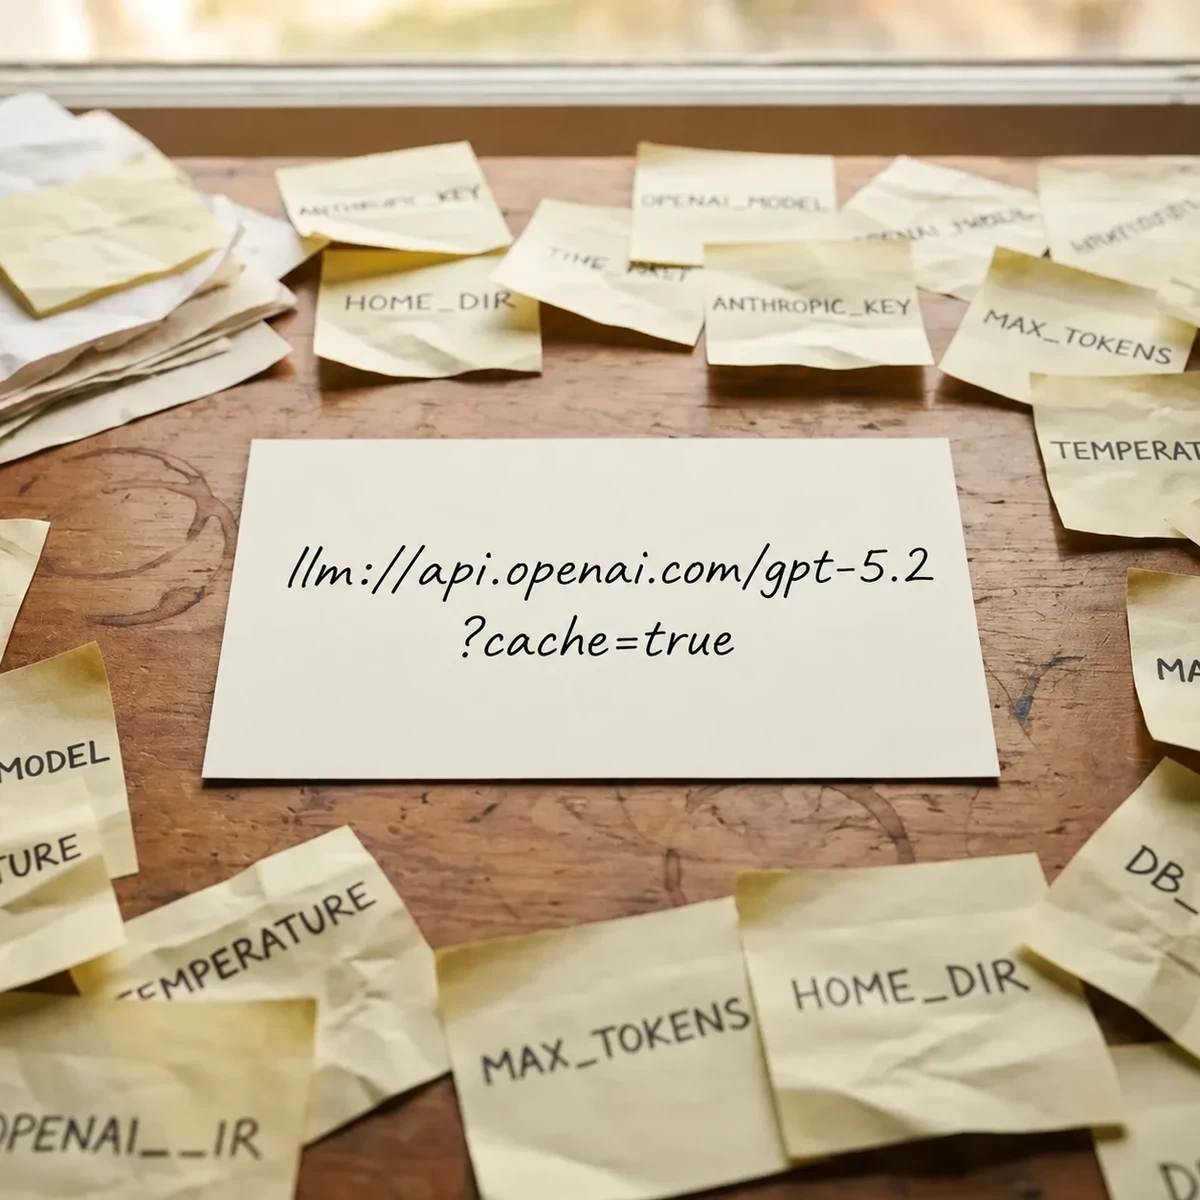
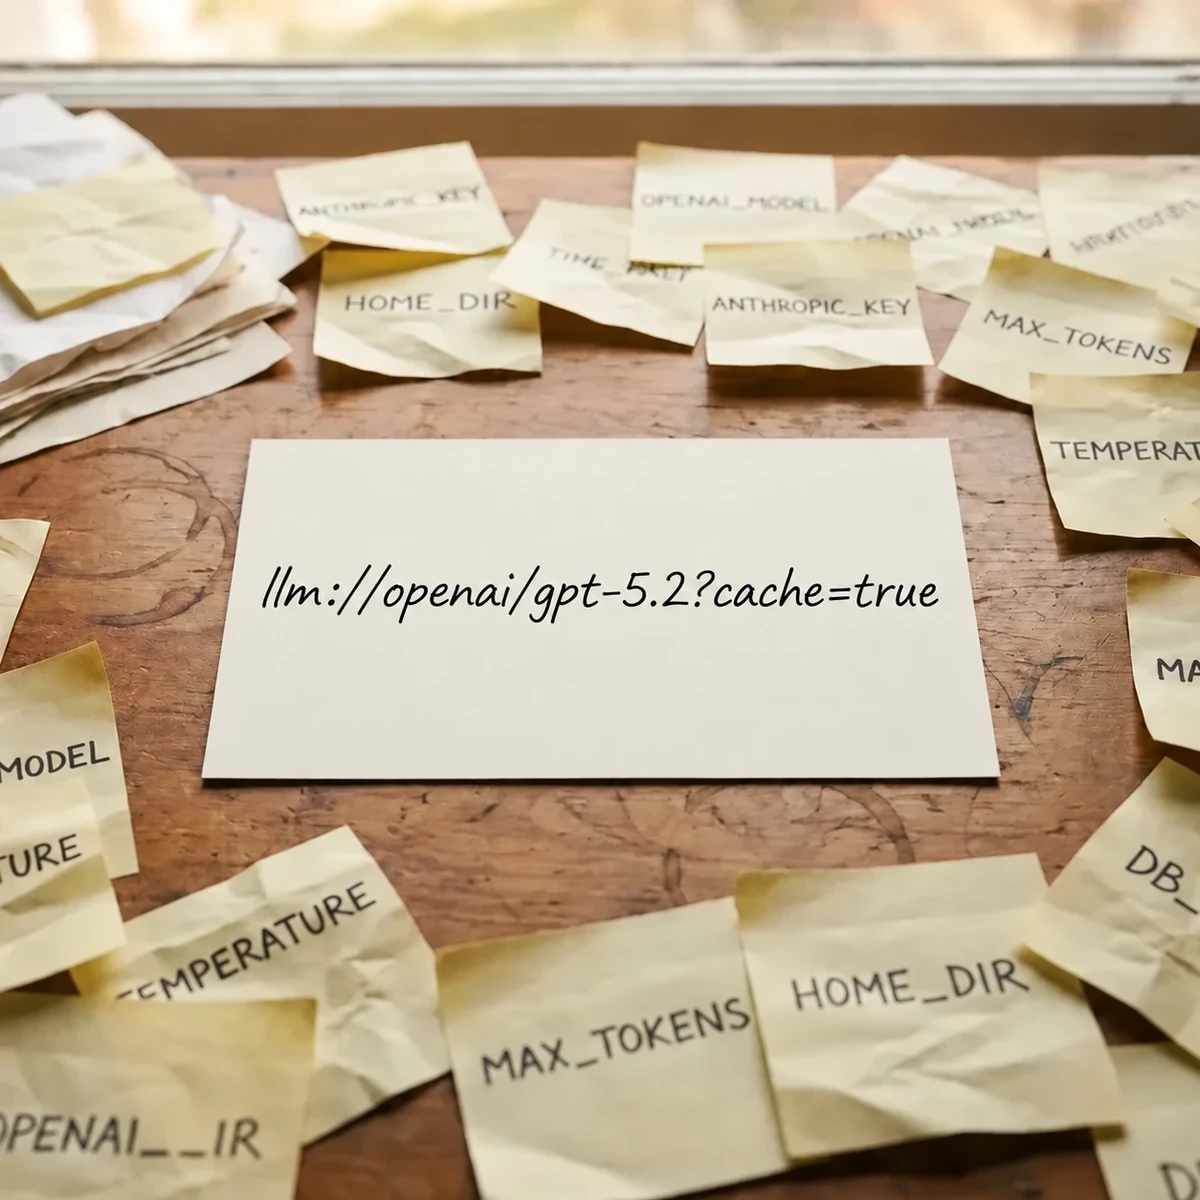
Use short llm:// connection string on one line across image family

Changed region(s): [[0.2158, 0.4625, 0.7708, 0.555]]

diff --git a/src/scripts/hero-formats.ts b/src/scripts/hero-formats.ts
@@ -10,7 +10,7 @@ const root = process.cwd();
 const postsRoot = resolve(root, "src/content/posts");
 const write = process.argv.includes("--write");
 const sourceOverrides: Record<string, string> = {
-  // Corrected composition retains llm://api.openai.com/gpt-5.2?cache=true in full.
+  // Corrected composition retains llm://openai/gpt-5.2?cache=true on one line.
   "2026-01-30--llm-connection-strings": "square-fullsize.webp",
   "2026-01-26--securing-clawdbot-tailscale": "hero-full.webp",
   "2024-08-29--handling-international-numbers-and-currency": "currency-banner-pic.webp",

diff --git a/output/imagegen/llm-connection-string-fix/prompts.md b/output/imagegen/llm-connection-string-fix/prompts.md
@@ -13,3 +13,9 @@ Square prompt: Preserve the wooden desk, sticky notes, lighting, materials and p
 Landscape prompt: Preserve the desk, sticky notes, pencils, palette, lighting, photographic style and landscape framing. Replace the bedrock connection string with the exact string above. Enlarge the central card and text, retain padding, and keep all essential text within central 1.8:1 and 2.25:1 crops. Wrap at the question mark if needed. Output a landscape photograph.
 
 Final files live beside `src/content/posts/2026-01-30--llm-connection-strings/index.mdx`. The square was independently edited, not cropped from the landscape. Sharp resized and encoded the approved images as WebP; social variants use the corrected landscape at 1200 by 628. `square-fullsize.webp` is the corrected source used by the existing hero-format regeneration script.
+
+## Short form, final user correction
+
+Final exact text: `llm://openai/gpt-5.2?cache=true`, on one line.
+
+Applied separately to the square and landscape photographs with built-in imagegen: Edit the central card's handwriting. Replace the current two lines with this EXACT text ON ONE SINGLE LINE: `llm://openai/gpt-5.2?cache=true`. No line break or wrapping. Use exactly the short provider name `openai`, model `gpt-5.2`, scheme `llm://` with two slashes, and query `?cache=true`. Center the entire single line on the card, adjust size for comfortable padding and clear readability. Preserve all desk objects, note positions, card, lighting, palette, photographic style and original framing. The central card contains no other text.
